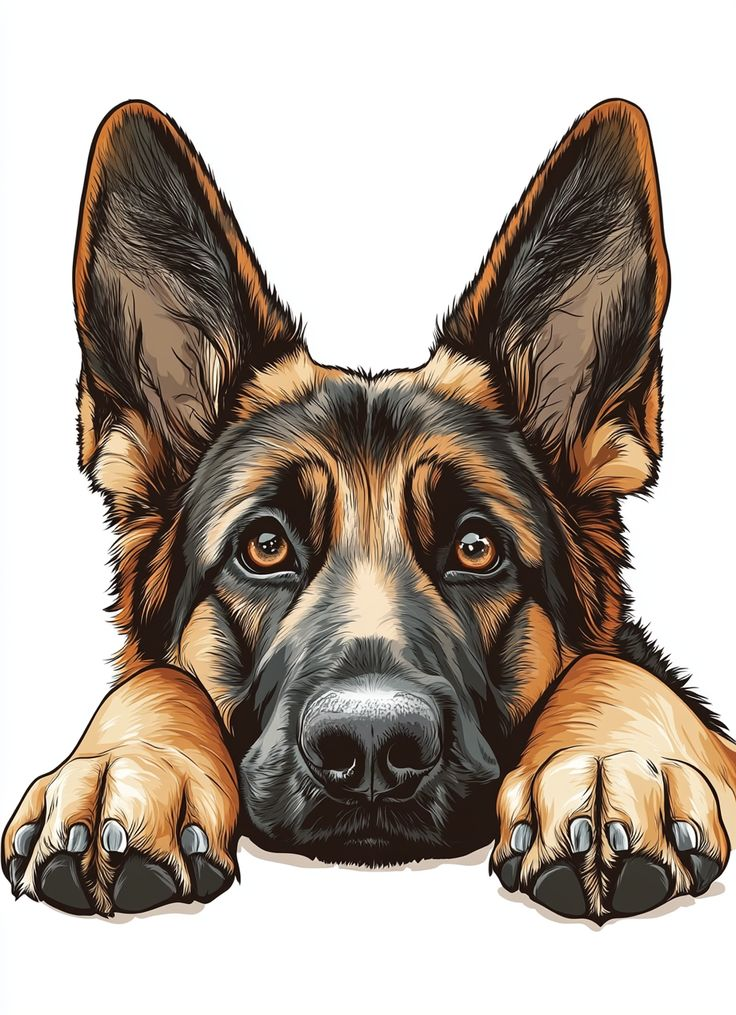
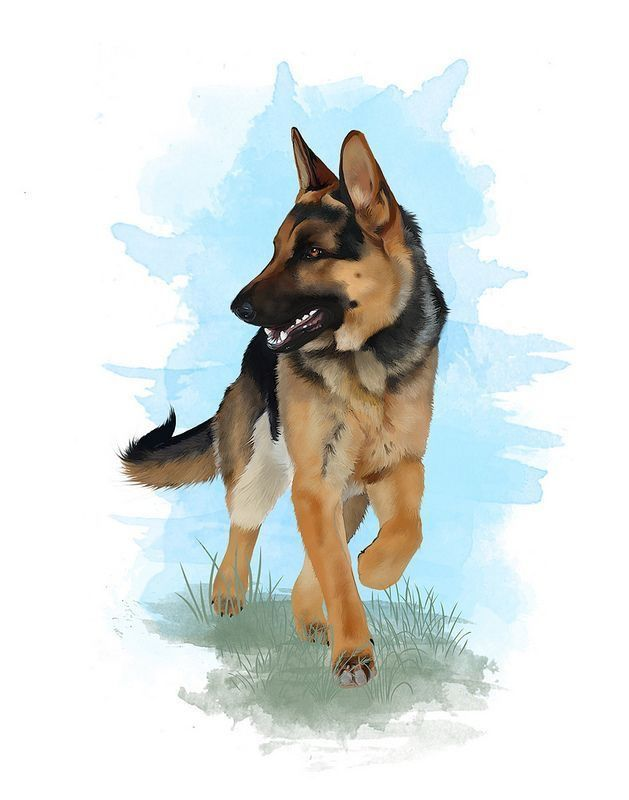
actualizacion datos base de datos aws

diff --git a/veterinaria-proyecto/src/pages/VerUsuarios.jsx b/veterinaria-proyecto/src/pages/VerUsuarios.jsx
@@ -2,22 +2,21 @@ import { useEffect, useState } from 'react';
 import axios from 'axios';
 import { Link } from 'react-router-dom';
 
-// Importación de imágenes desde assets
+
 import imgPitbull from '../assets/pitbull.jpg'; 
 import imgPastorAleman from '../assets/pastor_aleman.jpg';
 import imgBeagle from '../assets/beagle.jpg';   
 import imgSiames from '../assets/siames.jpg';
 import imgPersa from '../assets/persa.jpg';
-import imgGatoComun from '../assets/gato_comun.jpg';
+import imgBritishShorthair from '../assets/british_shorthair.jpg';
 
-// Diccionario de imágenes
 const imagenesRazas = {
   "pitbull": imgPitbull,
   "pastor aleman": imgPastorAleman,
   "beagle": imgBeagle,    
   "siames": imgSiames,
   "persa": imgPersa,
-  "gatoComun": imgGatoComun
+  "british shorthair": imgBritishShorthair,
 };
 
 const VerUsuarios = () => {
@@ -30,7 +29,13 @@ const VerUsuarios = () => {
         const res = await axios.get("http://localhost:8081/mascotas");
         setMascotas(res.data);
       } catch (err) {
-        console.error("Error al cargar datos:", err);
+        console.error("Error al cargar datos:", err);import imgBeagle from '../assets/beagle.jpg';
+import imgBritishShorthair from '../assets/british_shorthair.jpg';
+import imgPastorAleman from '../assets/pastor_aleman.jpg';
+import imgPersa from '../assets/persa.jpg';
+import imgPitbull from '../assets/pitbull.jpg';
+import imgSiames from '../assets/siames.jpg';
+
       }
     };
     cargarMascotas();
@@ -40,7 +45,7 @@ const VerUsuarios = () => {
   const eliminarMascota = async (id, nombre) => {
     if (window.confirm(`¿Estás seguro de eliminar a ${nombre}?`)) {
       try {
-        await axios.delete(`http://localhost:8081/mascotas/${id}`);
+        await axios.delete(`http://3.21.127.175:8081/mascotas${id}`);
         setMascotas(mascotas.filter(m => m.id !== id));
       } catch (err) {
         console.error("Error al eliminar:", err);

diff --git a/veterinaria-proyecto/src/pages/CrearUsuario.jsx b/veterinaria-proyecto/src/pages/CrearUsuario.jsx
@@ -1,14 +1,12 @@
 import { useState } from 'react';
 import axios from 'axios';
-import { Dog } from 'lucide-react';
 
 import imgPitbull from '../assets/pitbull.jpg'; 
 import imgPastorAleman from '../assets/pastor_aleman.jpg';
-import imgBeagle from '../assets/beagle.jpg';   
+import imgBeagle from "../assets/beagle.jpg";   
 import imgSiames from '../assets/siames.jpg';
 import imgPersa from '../assets/persa.jpg';
-import imgGatoComun from '../assets/gato_comun.jpg';
-
+import imgBritishShorthair from '../assets/british_shorthair.jpg';
 
 const imagenesRazas = {
   "pitbull": imgPitbull,
@@ -16,7 +14,7 @@ const imagenesRazas = {
   "beagle": imgBeagle,    
   "siames": imgSiames,
   "persa": imgPersa,
-  "gatoComun": imgGatoComun
+  "british shorthair": imgBritishShorthair,
 };
 
 const CrearUsuario = () => {
@@ -48,7 +46,7 @@ const CrearUsuario = () => {
   const handleSubmit = async (e) => {
     e.preventDefault();
     try {
-      await axios.post("http://localhost:8081/mascotas", mascota);
+      await axios.put("[http://3.21.127.175:8081/mascotas](http://3.21.127.175:8081/mascotas)")
       alert("¡Mascota registrada con éxito!");
       
       // AQUÍ LIMPIAMOS EL FORMULARIO
@@ -87,7 +85,7 @@ const CrearUsuario = () => {
             <option value="beagle">Beagle</option>
             <option value="siames">Siamés</option>
             <option value="persa">Persa</option>
-            <option value="gatoComun">Gato Común</option>
+            <option value="british shorthair">Británico Pelo Corto</option>
           </select>
         </div>
 

diff --git a/veterinaria-proyecto/src/pages/EditarUsuario.jsx b/veterinaria-proyecto/src/pages/EditarUsuario.jsx
@@ -19,7 +19,7 @@ const EditarUsuario = () => {
   useEffect(() => {
     const obtenerMascota = async () => {
       try {
-        const res = await axios.get(`http://localhost:8081/mascotas`);
+        const res = await axios.get("[http://3.21.127.175:8081/mascotas](http://3.21.127.175:8081/mascotas)")
         // Buscamos la mascota específica en el array que devuelve el backend
         const encontrada = res.data.find(m => m.id === parseInt(id));
         if (encontrada) setMascota(encontrada);
